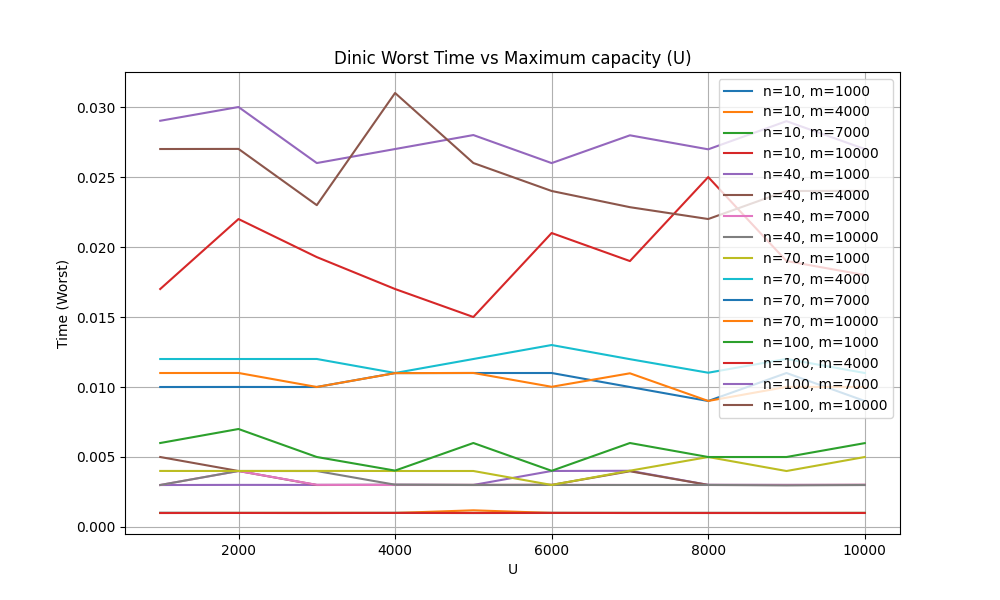
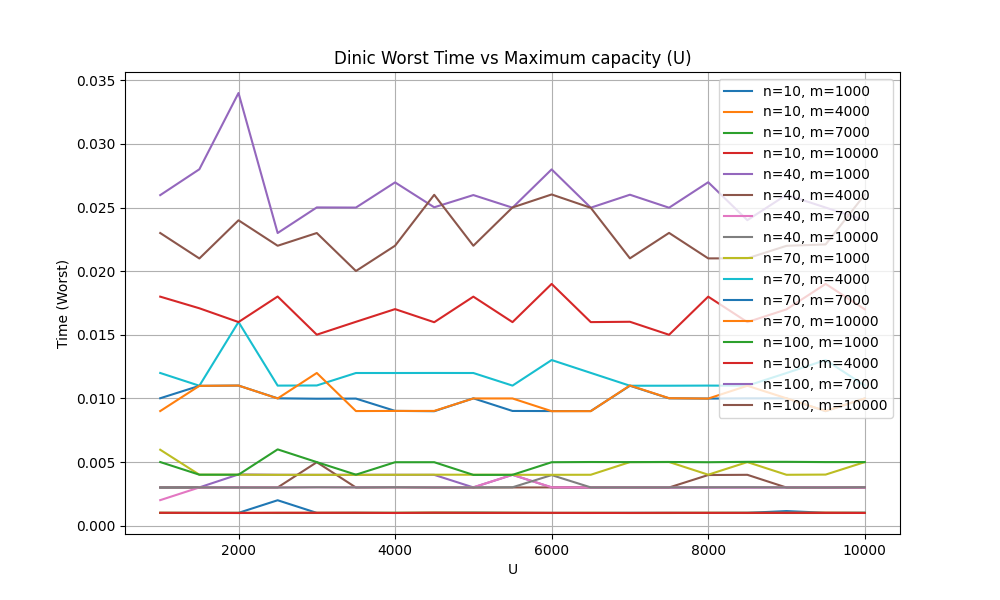
make graph connected

diff --git a/time_test.py b/time_test.py
@@ -1,11 +1,11 @@
-import dinic as d
-import edmonds_karp as ed
 import graph_generator as gg
+import graph as gr
 import os
 import time
 import pandas as pd
 import matplotlib.pyplot as plt
 import numpy as np
+import networkx as nx
 
 
 def process_graphs_in_folder(folder_name, source, sink):
@@ -13,14 +13,14 @@ def process_graphs_in_folder(folder_name, source, sink):
     timesEdKarp = []
     for filename in os.listdir(folder_name):
         if filename.endswith(".txt"):
-            graph = ed.Graph.create_from_file(os.path.join(folder_name, filename))
+            graph = gr.Graph.create_from_file(os.path.join(folder_name, filename))
             start_time = time.time()
             graph.edmonds_karp(source, sink)
             end_time = time.time()
             elapsed_time = end_time - start_time
             timesEdKarp.append(elapsed_time)
 
-            graph = d.Graph.create_from_file(os.path.join(folder_name, filename))
+            graph = gr.Graph.create_from_file(os.path.join(folder_name, filename))
             start_time = time.time()
             graph.dinic(source-1, sink-1)
             end_time = time.time()
@@ -43,14 +43,19 @@ averageEdKarp = []
 for n in range(10, 101, 30):
     for m in range(1000, 10001, 500):
         for U in range(1000, 10001, 3000):
-            graph = gg.generate_graph(n, m, U)
-            m_act = len(graph.edges())
+            m_act = m
+            if m < n - 1:
+                continue
+            if m > n * (n - 1):
+                m_act = n * (n - 1)
             folder_name = f"{n}_{m_act}_{U}"
 
             if(not os.path.exists(folder_name)):
                 os.makedirs(folder_name, exist_ok=True)
                 for i in range(1, 51):
-                    graph = gg.generate_graph(n, m, U)
+                    graph = gg.generate_graph(n, m_act, U)
+                    if not nx.is_weakly_connected(graph):
+                        print("не слабосвязный")
                     filename = os.path.join(folder_name, f"{i}.txt")
                     gg.write_graph_to_file(graph, filename)
 
@@ -82,9 +87,9 @@ def plot_performance(df, x_label, y_label, title, filename):
     if(x_label == 'm'):
         for key, grp in df.groupby(['n', 'U']):
             plt.plot(grp[x_label], grp['time'], label=f'n={key[0]}, U={key[1]}')
-        #x_values = np.linspace(1000, 10000, 400)
-        #y_values = 3/800000 * x_values + 1/400
-        #plt.plot(x_values, y_values, label=f'y=3/800000 * {x_label} + 1/400', color='red',linewidth=2)
+        x_values = np.linspace(1000, 10000, 400)
+        y_values = 0.0000025 * x_values
+        plt.plot(x_values, y_values, label=f'y=0.0000025 * {x_label}', color='red',linewidth=2)
     if(x_label == 'U'):
         for key, grp in df.groupby(['n', 'm']):
             plt.plot(grp[x_label], grp['time'], label=f'n={key[0]}, m={key[1]}')
@@ -99,37 +104,37 @@ def plot_performance(df, x_label, y_label, title, filename):
 # Построение графиков для среднего и худшего времени выполнения алгоритмов
 
 # Dinic Worst Time vs n
-plot_performance(df_worst_dinic, 'n', 'Time (Worst)', 'Dinic Worst Time vs Number of vertices (n)', 'Dinic_Worst_vs_n.png')
+#plot_performance(df_worst_dinic, 'n', 'Time (Worst)', 'Dinic Worst Time vs Number of vertices (n)', 'Dinic_Worst_vs_n.png')
 
 # Dinic Average Time vs n
-plot_performance(df_avg_dinic, 'n', 'Time (Average)', 'Dinic Average Time vs Number of vertices (n)', 'Dinic_Avg_vs_n.png')
+#plot_performance(df_avg_dinic, 'n', 'Time (Average)', 'Dinic Average Time vs Number of vertices (n)', 'Dinic_Avg_vs_n.png')
 
 # Dinic Worst Time vs m
-plot_performance(df_worst_dinic, 'm', 'Time (Worst)', 'Dinic Worst Time vs Number of edges (m)', 'Dinic_Worst_vs_m.png')
+#plot_performance(df_worst_dinic, 'm', 'Time (Worst)', 'Dinic Worst Time vs Number of edges (m)', 'Dinic_Worst_vs_m.png')
 
 # Dinic Average Time vs m
 plot_performance(df_avg_dinic, 'm', 'Time (Average)', 'Dinic Average Time vs Number of edges (m)', 'Dinic_Avg_vs_m.png')
 
 # Dinic Worst Time vs U
-plot_performance(df_worst_dinic, 'U', 'Time (Worst)', 'Dinic Worst Time vs Maximum capacity (U)', 'Dinic_Worst_vs_U.png')
+#plot_performance(df_worst_dinic, 'U', 'Time (Worst)', 'Dinic Worst Time vs Maximum capacity (U)', 'Dinic_Worst_vs_U.png')
 
 # Dinic Average Time vs U
-plot_performance(df_avg_dinic, 'U', 'Time (Average)', 'Dinic Average Time vs Maximum capacity (U)', 'Dinic_Avg_vs_U.png')
+#plot_performance(df_avg_dinic, 'U', 'Time (Average)', 'Dinic Average Time vs Maximum capacity (U)', 'Dinic_Avg_vs_U.png')
 
 # Edmonds-Karp Worst Time vs n
-plot_performance(df_worst_edkarp, 'n', 'Time (Worst)', 'Edmonds-Karp Worst Time vs Number of vertices (n)', 'EdKarp_Worst_vs_n.png')
+#plot_performance(df_worst_edkarp, 'n', 'Time (Worst)', 'Edmonds-Karp Worst Time vs Number of vertices (n)', 'EdKarp_Worst_vs_n.png')
 
 # Edmonds-Karp Average Time vs n
-plot_performance(df_avg_edkarp, 'n', 'Time (Average)', 'Edmonds-Karp Average Time vs Number of vertices (n)', 'EdKarp_Avg_vs_n.png')
+#plot_performance(df_avg_edkarp, 'n', 'Time (Average)', 'Edmonds-Karp Average Time vs Number of vertices (n)', 'EdKarp_Avg_vs_n.png')
 
 # Edmonds-Karp Worst Time vs m
-plot_performance(df_worst_edkarp, 'm', 'Time (Worst)', 'Edmonds-Karp Worst Time vs Number of edges (m)', 'EdKarp_Worst_vs_m.png')
+#plot_performance(df_worst_edkarp, 'm', 'Time (Worst)', 'Edmonds-Karp Worst Time vs Number of edges (m)', 'EdKarp_Worst_vs_m.png')
 
 # Edmonds-Karp Average Time vs m
-plot_performance(df_avg_edkarp, 'm', 'Time (Average)', 'Edmonds-Karp Average Time vs Number of edges (m)', 'EdKarp_Avg_vs_m.png')
+#plot_performance(df_avg_edkarp, 'm', 'Time (Average)', 'Edmonds-Karp Average Time vs Number of edges (m)', 'EdKarp_Avg_vs_m.png')
 
 # Edmonds-Karp Worst Time vs U
-plot_performance(df_worst_edkarp, 'U', 'Time (Worst)', 'Edmonds-Karp Worst Time vs Maximum capacity (U)', 'EdKarp_Worst_vs_U.png')
+#plot_performance(df_worst_edkarp, 'U', 'Time (Worst)', 'Edmonds-Karp Worst Time vs Maximum capacity (U)', 'EdKarp_Worst_vs_U.png')
 
 # Edmonds-Karp Average Time vs U
-plot_performance(df_avg_edkarp, 'U', 'Time (Average)', 'Edmonds-Karp Average Time vs Maximum capacity (U)', 'EdKarp_Avg_vs_U.png')
+#plot_performance(df_avg_edkarp, 'U', 'Time (Average)', 'Edmonds-Karp Average Time vs Maximum capacity (U)', 'EdKarp_Avg_vs_U.png')

diff --git a/graph_generator.py b/graph_generator.py
@@ -3,9 +3,30 @@ import random
 import networkx as nx
 
 def generate_graph(n, m, U):
-    graph = nx.gnm_random_graph(n, m, directed=True)
-    for u, v in graph.edges():
-        graph[u][v]['capacity'] = random.randint(1, U)
+    if m < n - 1:
+        raise ValueError("Для связного графа количество рёбер должно быть не меньше n-1")
+    if m > n * (n - 1):
+        raise ValueError(f"Для ориентированного графа количество рёбер не может превышать {n * (n - 1)}")
+    
+    # Создаем ориентированный граф с n вершинами
+    graph = nx.DiGraph()
+
+    # Создаем базовый связный компонент
+    nodes = list(range(n))
+    random.shuffle(nodes)
+    for i in range(n - 1):
+        u = nodes[i]
+        v = nodes[i + 1]
+        graph.add_edge(u, v, capacity=random.randint(1, U))
+
+    # Добавляем оставшиеся рёбра случайным образом
+    remaining_edges = m - (n - 1)
+    while remaining_edges > 0:
+        u, v = random.sample(range(n), 2)
+        if not graph.has_edge(u, v):
+            graph.add_edge(u, v, capacity=random.randint(1, U))
+            remaining_edges -= 1
+
     return graph
 
 def write_graph_to_file(graph, filename):
@@ -35,21 +56,27 @@ def generate_worst_case_graph_dinic(n, capacity_large, capacity_small, filename)
             file.write(f"{u + 1} {v + 1} {capacity}\n")
 
 
-# Ввод параметров с консоли
-# n = int(input("Введите число вершин (n): "))
-# m = int(input("Введите число рёбер (m): "))
-# U = int(input("Введите максимальную пропускную способность (U): "))
+#Ввод параметров с консоли
+#n = int(input("Введите число вершин (n): "))
+#m = int(input("Введите число рёбер (m): "))
+#U = int(input("Введите максимальную пропускную способность (U): "))
 
-# Создание папки для файлов
-# folder_name = f"{n}_{m}_{U}"
-# os.makedirs(folder_name, exist_ok=True)
+#if m < n - 1:
+#    raise ValueError("Для связного графа количество рёбер должно быть не меньше n-1")
+#if m > n * (n - 1):
+#    raise ValueError(f"Для ориентированного графа количество рёбер не может превышать {n * (n - 1)}")
 
-# Генерация 50 графов и запись в файлы
-# for i in range(1, 51):
+#Создание папки для файлов
+#folder_name = f"{n}_{m}_{U}"
+#os.makedirs(folder_name, exist_ok=True)
+
+#Генерация 50 графов и запись в файлы
+#for i in range(1, 51):
 #     graph = generate_graph(n, m, U)
 #     filename = os.path.join(folder_name, f"{i}.txt")
 #     write_graph_to_file(graph, filename)
-#     print(f"Граф {i} сохранён в файле {filename}")
+#     if nx.is_weakly_connected(graph):
+#        print(f"Граф слабосвязен {i} сохранён в файле {filename}")
 
     
 
